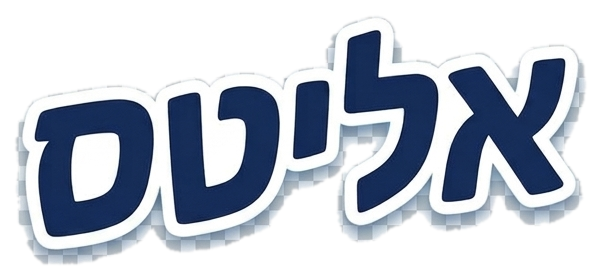
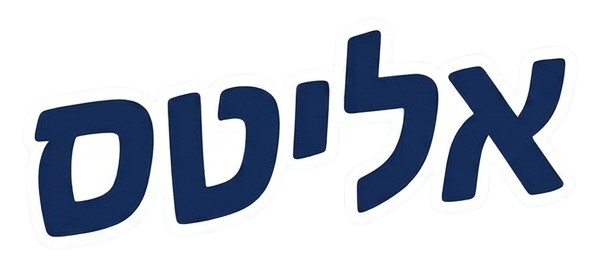
Wire in IAF/updated unit emblems, refine splash typography and layout
- Process the uploaded IAF emblem (solid navy background, plus a thin
  1-2px border artifact right at the image edge that needed trimming
  before keying out the background) into a transparent PNG and show it
  in the top-left corner, mirroring the unit emblem on the right
- Replace unit-emblem.png with the updated badge artwork (cropped to
  just the circular emblem, excluding the slogan text below it, which
  doesn't read at corner-badge size)
- Swap in the cleaner shadow-free title art the user supplied
  (title-removebg-preview.png) in place of the previous version
- Drop the plane emoji from the motivational line
- Subtitle up to 1.5rem, motivation line down to 1rem
- Credit line at 50% opacity, moved to sit directly above the start
  button at the bottom instead of grouped with the centered text

diff --git a/index.html b/index.html
@@ -39,16 +39,16 @@
   <section id="screen-splash" class="screen active">
     <img class="splash-tower-bg" src="assets/tower.png" alt="" aria-hidden="true">
 
-    <img id="iaf-emblem" class="splash-emblem splash-emblem-left hidden" alt="סמל חיל האוויר">
+    <img id="iaf-emblem" class="splash-emblem splash-emblem-left" src="assets/iaf-emblem.png" alt="סמל חיל האוויר">
     <img id="unit-emblem" class="splash-emblem splash-emblem-right" src="assets/unit-emblem.png" alt="סמל היחידה">
 
     <div class="screen-inner splash-inner">
       <div class="splash-text-block">
         <img class="splash-title-img" src="assets/title.png" alt="אליטס">
         <div class="splash-subtitle">משחק מילים בסגנון אליאס לחיל האוויר</div>
-        <div class="splash-motivation">מוכנים להמריא לניצחון? 🛫</div>
-        <div class="splash-credit">פותח ע"י יחידת שה"ד 339</div>
+        <div class="splash-motivation">מוכנים להמריא לניצחון?</div>
       </div>
+      <div class="splash-credit">פותח ע"י יחידת שה"ד 339</div>
       <button id="splash-continue-btn" class="btn btn-primary btn-large splash-bottom-btn">התחל</button>
     </div>
   </section>

diff --git a/style.css b/style.css
@@ -843,14 +843,14 @@ body.on-splash .app-header {
 }
 
 .splash-subtitle {
-  font-size: 1.05rem;
+  font-size: 1.5rem;
   font-weight: 700;
   color: #1e6fb8;
   max-width: 320px;
 }
 
 .splash-motivation {
-  font-size: 1.1rem;
+  font-size: 1rem;
   font-weight: 700;
   color: #b8790f;
 }
@@ -858,11 +858,11 @@ body.on-splash .app-header {
 .splash-credit {
   font-size: 0.85rem;
   color: #3f6c92;
+  opacity: 0.5;
+  text-align: center;
+  margin-bottom: 8px;
 }
 
-.splash-bottom-btn {
-  margin-top: auto;
-}
 
 .splash-emblem {
   position: absolute;
